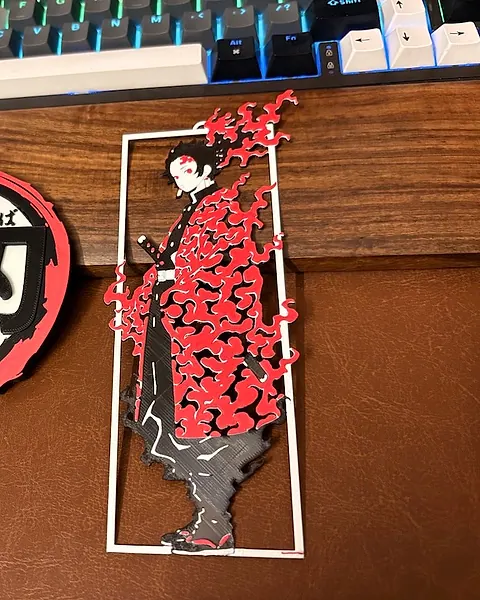
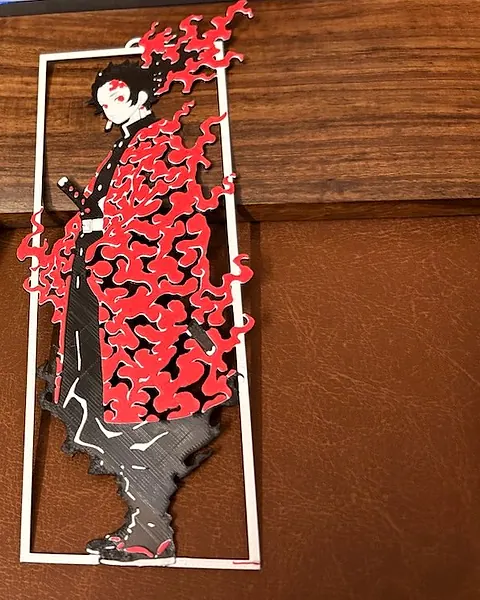
Preserve verified image build and crops from previous session

diff --git a/tools/build-images.js b/tools/build-images.js
@@ -54,22 +54,39 @@ async function emit(pipeline, outBase, widths, { height = null, quality = 78 } =
  * `crop` is [left, top, width, height] in source pixels; ratio is 4:5.
  * ------------------------------------------------------------------------- */
 const GALLERY = [
+  /* Both panels are photographed twice. In wedding-tokens.jpg the two objects
+   * overlap horizontally, so no crop can isolate either one — the old crops
+   * each carried a slice of the other panel, and the figure-panel tile showed
+   * half the logo panel. In anime-wall-art.jpg they sit apart (logo ends x 555,
+   * figure frame starts x 575), so both tiles are cut from that angle instead,
+   * each showing only its own subject.
+   *
+   * Bounds read off a coordinate grid over the original, including the parts
+   * that overhang: the logo panel's black tail reaches x 70, and the figure's
+   * red flames rise well above its white frame to y 148. Logo panel spans
+   * x 70-540, y 265-615; figure panel x 575-868, y 148-838; keyboard above
+   * y 150. The figure sits left in its frame because the logo panel occupies
+   * everything to its left — the leather to the right is deliberate space, not
+   * a centring error. */
   {
     slug: 'anime-logo-panel',
-    src: 'wedding-tokens.jpg', // 1200x900 landscape, two panels on a desk
-    crop: [56, 0, 720, 900],
-    note: 'Left-hand layered circular logo panel',
+    src: 'anime-wall-art.jpg',
+    crop: [50, 155, 510, 637],
+    note: 'Circular layered logo panel, isolated; keyboard cropped out above',
   },
   {
     slug: 'anime-figure-panel',
-    src: 'anime-wall-art.jpg', // 1200x900 landscape, same pair, second angle
-    crop: [420, 0, 720, 900],
-    note: 'Right-hand layered figure wall panel',
+    src: 'anime-wall-art.jpg',
+    crop: [555, 135, 592, 740],
+    note: 'Framed layered figure panel with its flames, isolated on leather',
   },
   {
     slug: 'dragon-figure',
     src: 'dragon-figure.jpg', // 900x1200 portrait
-    crop: [0, 60, 900, 1125],
+    /* Measured: the figure spans x 20-720, y 75-1060 once the tail and its red
+     * fin are included. Narrowing to 808 drops the monitor strip above and
+     * about half the alarm clock at the right without touching the object. */
+    crop: [0, 70, 808, 1010],
     brighten: 1.06,
   },
   {
